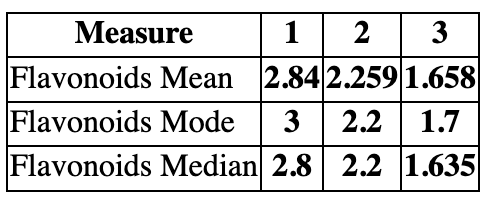
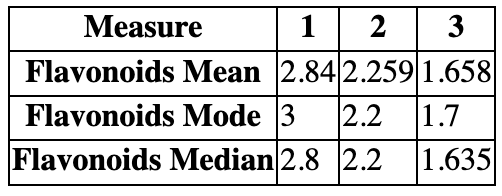
table headers updated

diff --git a/src/components/FlavanoidsTable/FlavanoidTable.tsx b/src/components/FlavanoidsTable/FlavanoidTable.tsx
@@ -11,32 +11,32 @@ export const FlavanoidTable: React.FC<{}> = () => {
     <table>
         <thead>
           <tr>
-            <th>Measure</th>
-             {classNames.map((c)=>{
-                return <th key={c}>{c}</th>
+            <th>{"Measure"}</th>
+             {classNames.map((alcohol)=>{
+                return <th key={alcohol}>{alcohol}</th>
               }
             )}
           </tr>
         </thead>
         <tbody>
         <tr>
-          <td>Flavonoids Mean</td>
-          {meanFlavanoidsList.map((c)=>{
-                return <th key={c}>{c}</th>
+          <th>{"Flavonoids Mean"}</th>
+          {meanFlavanoidsList.map((mean,i)=>{
+                return <td key={classNames[i]+"-mean"}>{mean}</td>
               }
           )}
         </tr>
         <tr>
-          <td>Flavonoids Mode</td>
-          {modeFlavanoidsList.map((c)=>{
-                return <th key={c}>{c}</th>
+          <th>{"Flavonoids Mode"}</th>
+          {modeFlavanoidsList.map((mode,i)=>{
+                return <td key={classNames[i]+"-mode"}>{mode}</td>
               }
           )}
         </tr>
         <tr>
-          <td>Flavonoids Median</td>
-          {medianFlavanoidsList.map((c)=>{
-                return <th key={c}>{c}</th>
+          <th>{"Flavonoids Median"}</th>
+          {medianFlavanoidsList.map((median,i)=>{
+                return <td key={classNames[i]+"-median"}>{median}</td>
               }
           )}
         </tr>

diff --git a/src/components/GammaTable/GammaTable.tsx b/src/components/GammaTable/GammaTable.tsx
@@ -11,32 +11,32 @@ export const GammaTable: React.FC<{}> = () => {
     <table>
         <thead>
           <tr>
-            <th>Measure</th>
-            {classNames.map((c)=>{
-                return <th key={c}>{c}</th>
+            <th>{"Measure"}</th>
+            {classNames.map((alcohol)=>{
+                return <th key={alcohol}>{alcohol}</th>
               }
             )}
           </tr>
         </thead>
         <tbody>
         <tr>
-          <td>Gamma Mean</td>
-          {meanGammaList.map((c)=>{
-                return <th key={c}>{c}</th>
+          <th>{"Gamma Mean"}</th>
+          {meanGammaList.map((mean,i)=>{
+                return <td key={classNames[i]+"-mean"}>{mean}</td>
               }
           )}
         </tr>
         <tr>
-          <td>Gamma Mode</td>
-          {modeGammaList.map((c)=>{
-                return <th key={c}>{c}</th>
+          <th>{"Gamma Mode"}</th>
+          {modeGammaList.map((mode,i)=>{
+                return <td key={classNames[i]+"-mode"}>{mode}</td>
               }
           )}
         </tr>
         <tr>
-          <td>Gamma Median</td>
-          {medianGammaList.map((c)=>{
-                return <th key={c}>{c}</th>
+          <th>{"Gamma Median"}</th>
+          {medianGammaList.map((median,i)=>{
+                return <td key={classNames[i]+"-median"}>{median}</td>
               }
           )}
         </tr>
